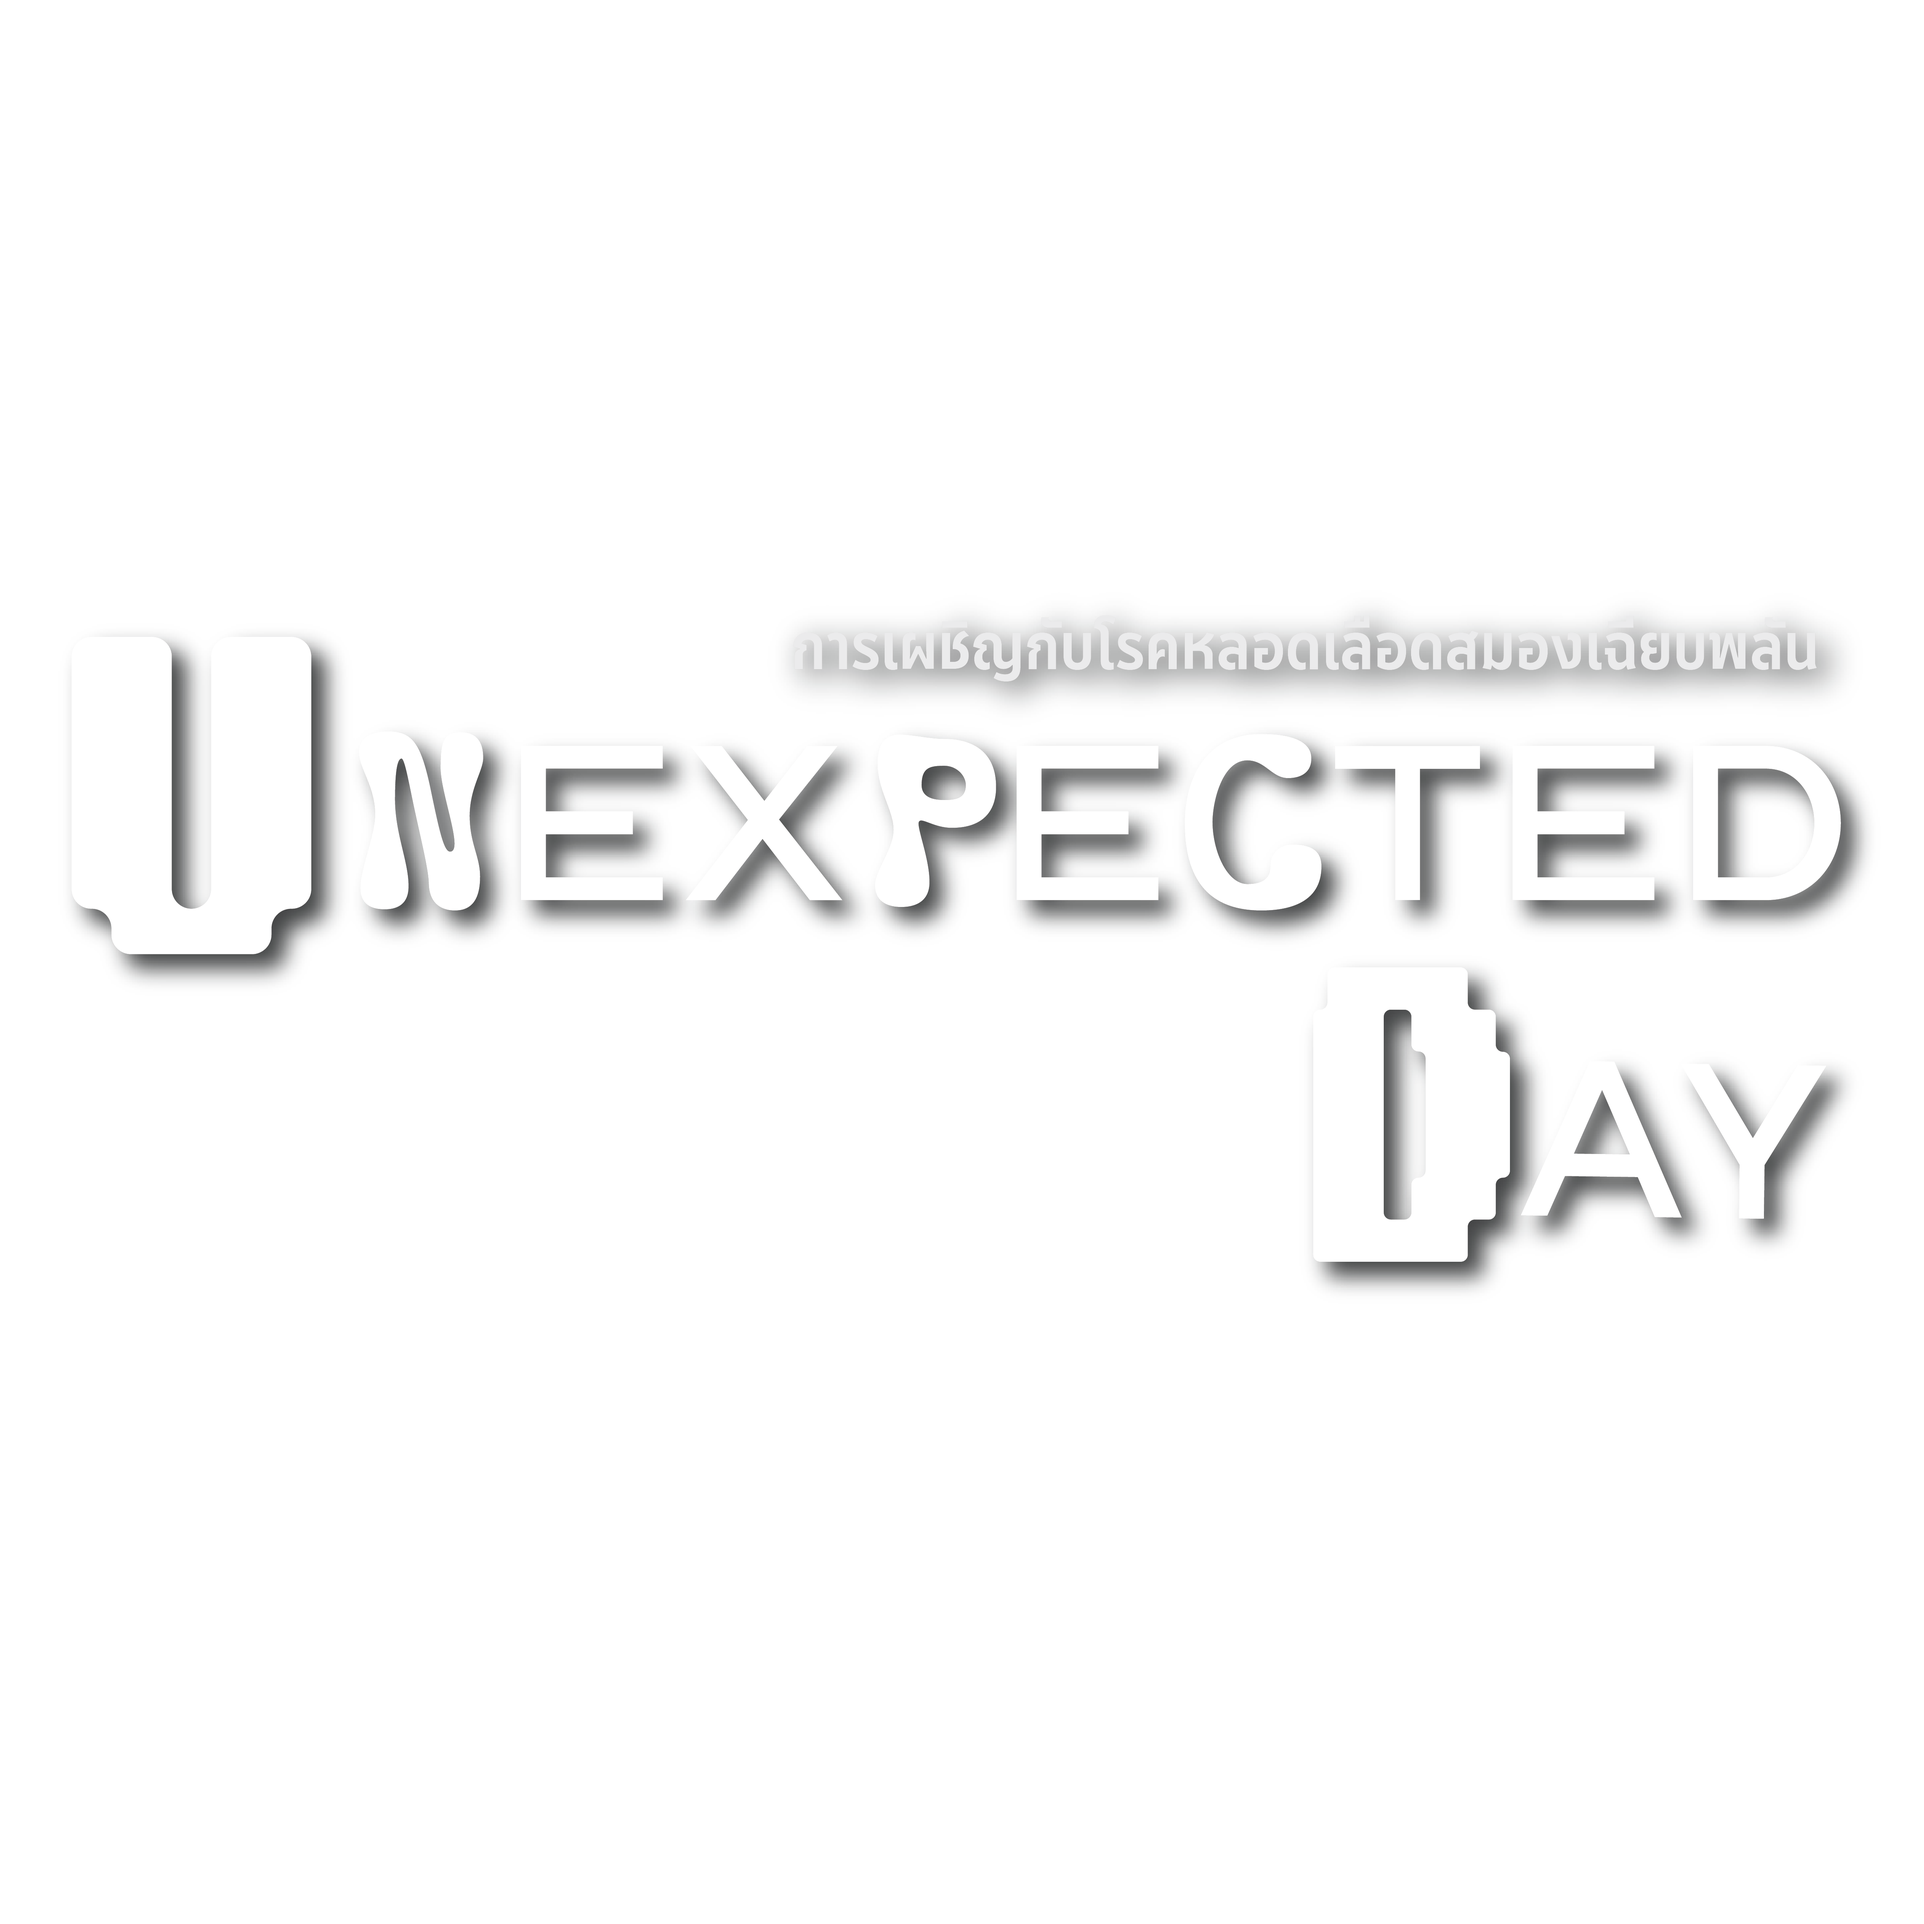
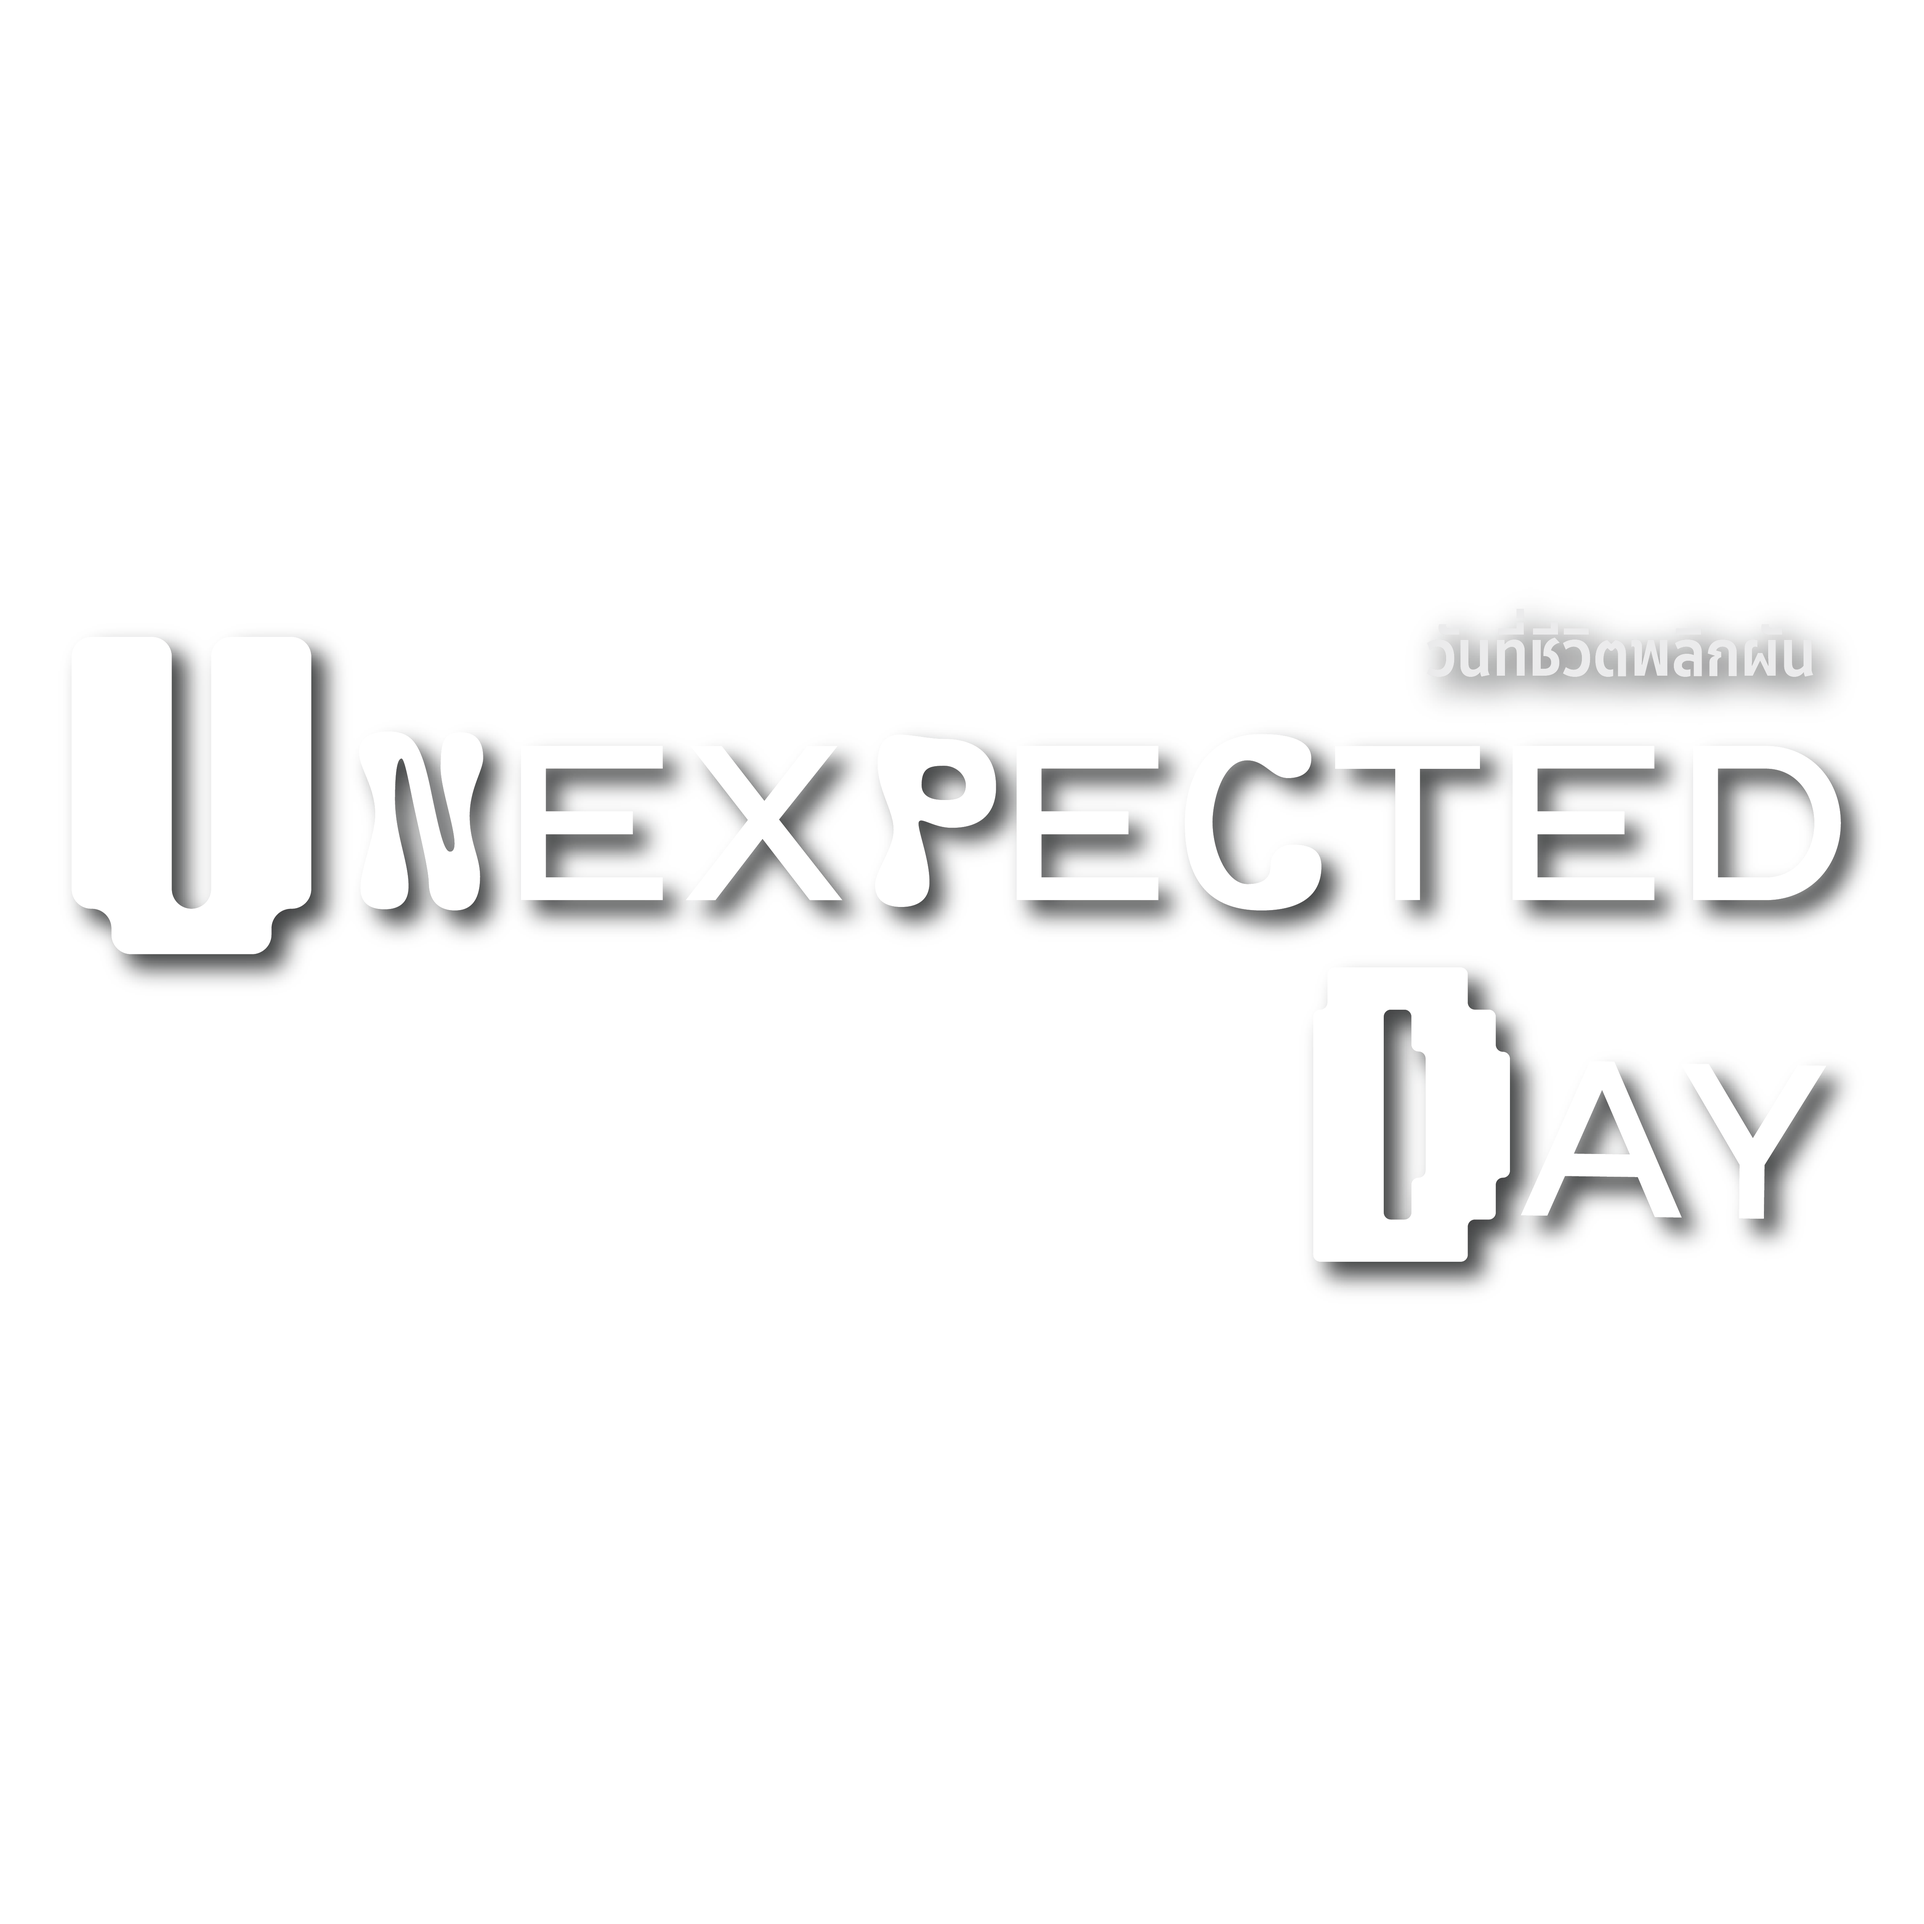
new deploy

Changed region(s): [[0.4056, 0.312, 0.936, 0.3744]]

diff --git a/src/pages/BEFAST/EndStory.tsx b/src/pages/BEFAST/EndStory.tsx
@@ -76,17 +76,17 @@ const UnexpectedDayForm: React.FC = () => {
     ctx.font = "300 140px Sarabun-Light";
     ctx.fillStyle = "black";
 
-    const nameX = 1340;
-    const nameY = 2550;
+    const nameX = 1040;
+    const nameY = 2000;
     ctx.fillText(formData.name, nameX, nameY);
 
-    const ageX = 2900;
-    const ageY = 2550;
+    const ageX = 2500;
+    const ageY = 2000;
     ctx.fillText(formData.age, ageX, ageY);
 
     const dreamBoxX = 864;
-    const dreamBoxY = 2750;
-    const dreamBoxWidth = 2700;
+    const dreamBoxY = 2250;
+    const dreamBoxWidth = 2000;
     const dreamBoxHeight = 955;
     const paddingTop = 170; // Padding ด้านบน
     const paddingBottom = 12; // Padding ด้านล่าง
@@ -247,9 +247,9 @@ const UnexpectedDayForm: React.FC = () => {
     event.stopPropagation();
   };
 
-  const handleScreenClick = () => {
-    navigate('/home');  // เปลี่ยนเส้นทางไปหน้าแรก
-  };
+  // const handleScreenClick = () => {
+  //   navigate('/home');  // เปลี่ยนเส้นทางไปหน้าแรก
+  // };
   
 
   return (
@@ -263,9 +263,15 @@ const UnexpectedDayForm: React.FC = () => {
         animate="animate"
         exit="exit"
         variants={fadeInOut(2, "easeInOut", 0)}
-        onClick={handleScreenClick}
+        // onClick={handleScreenClick}
       >
         <div className="w-full min-h-screen bg-cover bg-center" style={{ backgroundImage: "url('/image/Endstory/bg-card.png')" }}>
+        <button
+          onClick={() => navigate('/home')}
+          className="absolute z-50 top-4 right-4 bg-black/20 text-white px-4 py-2 rounded-md shadow-md hover:bg-red-600 transition"
+        >
+          กลับสู่หน้าหลัก
+        </button>
 
           {/* Canvas สำหรับแสดงรูปภาพและข้อมูล */}
           <div className="w-full flex justify-center mb-32 " >
@@ -285,7 +291,7 @@ const UnexpectedDayForm: React.FC = () => {
           </div>
 
           {/* ปุ่มควบคุม */}
-          <div className="absolute w-full bottom-[5%] left-0 flex flex-col items-center space-y-6">
+          <div className="absolute w-full bottom-[8%] left-0 flex flex-col items-center space-y-6">
             <div className="flex justify-center items-center space-x-4">
               <div className="flex flex-col items-center">
                 <button

diff --git a/src/pages/credit/Aboutme.tsx b/src/pages/credit/Aboutme.tsx
@@ -124,8 +124,8 @@ const Aboutme: React.FC = () => {
                 <img src="/image/health-com-logo.png" alt="รูปที่ 2" className="w-32 h-16 " />
               </div>
 
-              <p className="text-[0.6rem] mt-8 text-[#ffffff] drop-shadow-lg text-center">
-                Unexpected Day | การเผชิญกับโรคหลอดเลือดสมองเฉียบพลัน
+              <p className="text-[0.6rem] mt-8 text-[#ffffff] drop-shadow-lg text-center opacity-70">
+                Unexpected Day | วันที่ชีวิตพลิกผัน
               </p>
 
               </div>

diff --git a/src/pages/credit/Allcredits.tsx b/src/pages/credit/Allcredits.tsx
@@ -107,8 +107,8 @@ return (
           </div>
 
           {/* 🔹 Footer */}
-          <footer className="text-[0.67rem] mt-8 text-[#ffffff] drop-shadow-md" style={{ textShadow: '2px 2px 4px rgba(0, 0, 0, 0.1)' }}>
-            Unexpected Day | การเผชิญกับโรคหลอดเลือดสมองเฉียบพลัน
+          <footer className="text-[0.67rem] mt-8 text-[#ffffff] drop-shadow-md text-center opacity-70" style={{ textShadow: '2px 2px 4px rgba(0, 0, 0, 0.1)' }}>
+            Unexpected Day | วันที่ชีวิตพลิกผัน
           </footer>
         </div>
       </div>

diff --git a/src/pages/credit/Introduction.tsx b/src/pages/credit/Introduction.tsx
@@ -103,8 +103,8 @@ return (
             
 
 
-            <footer className="text-[0.67rem] mt-8 text-[#ffffff] drop-shadow-md" style={{ textShadow: '2px 2px 4px rgba(0, 0, 0, 0.1)' }}>
-            Unexpected Day | การเผชิญกับโรคหลอดเลือดสมองเฉียบพลัน
+            <footer className="text-[0.67rem] mt-8 text-[#ffffff] drop-shadow-md text-center opacity-70" style={{ textShadow: '2px 2px 4px rgba(0, 0, 0, 0.1)' }}>
+            Unexpected Day | วันที่ชีวิตพลิกผัน
         </footer>          
         </div>
         </div>
